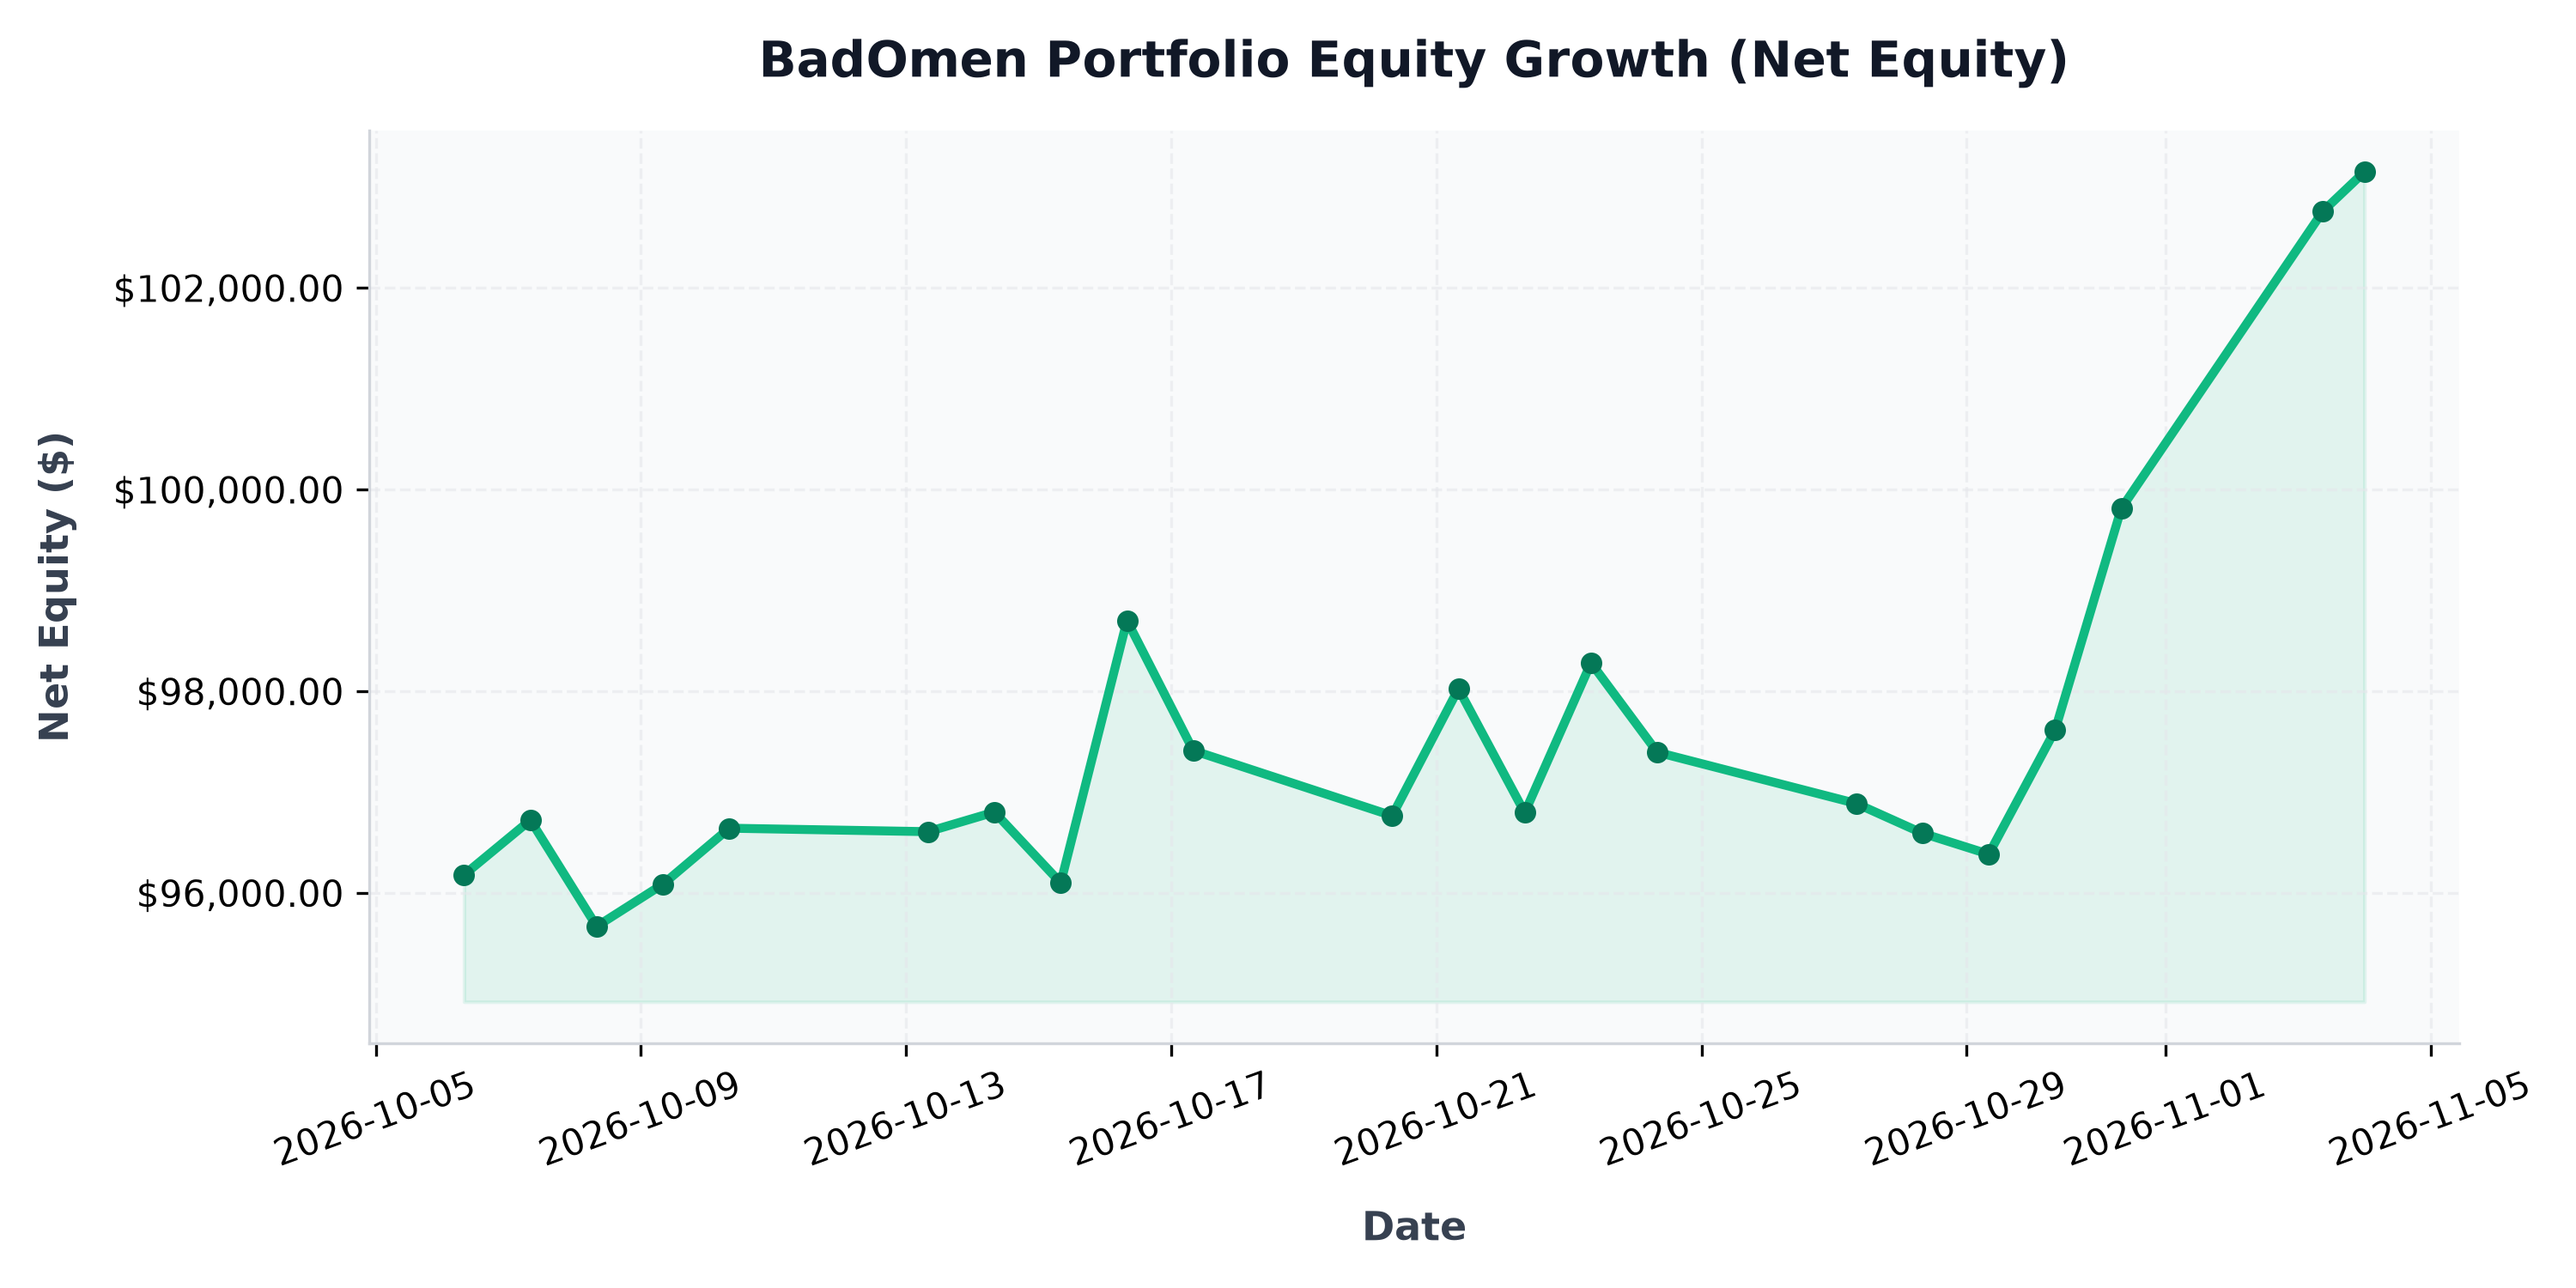
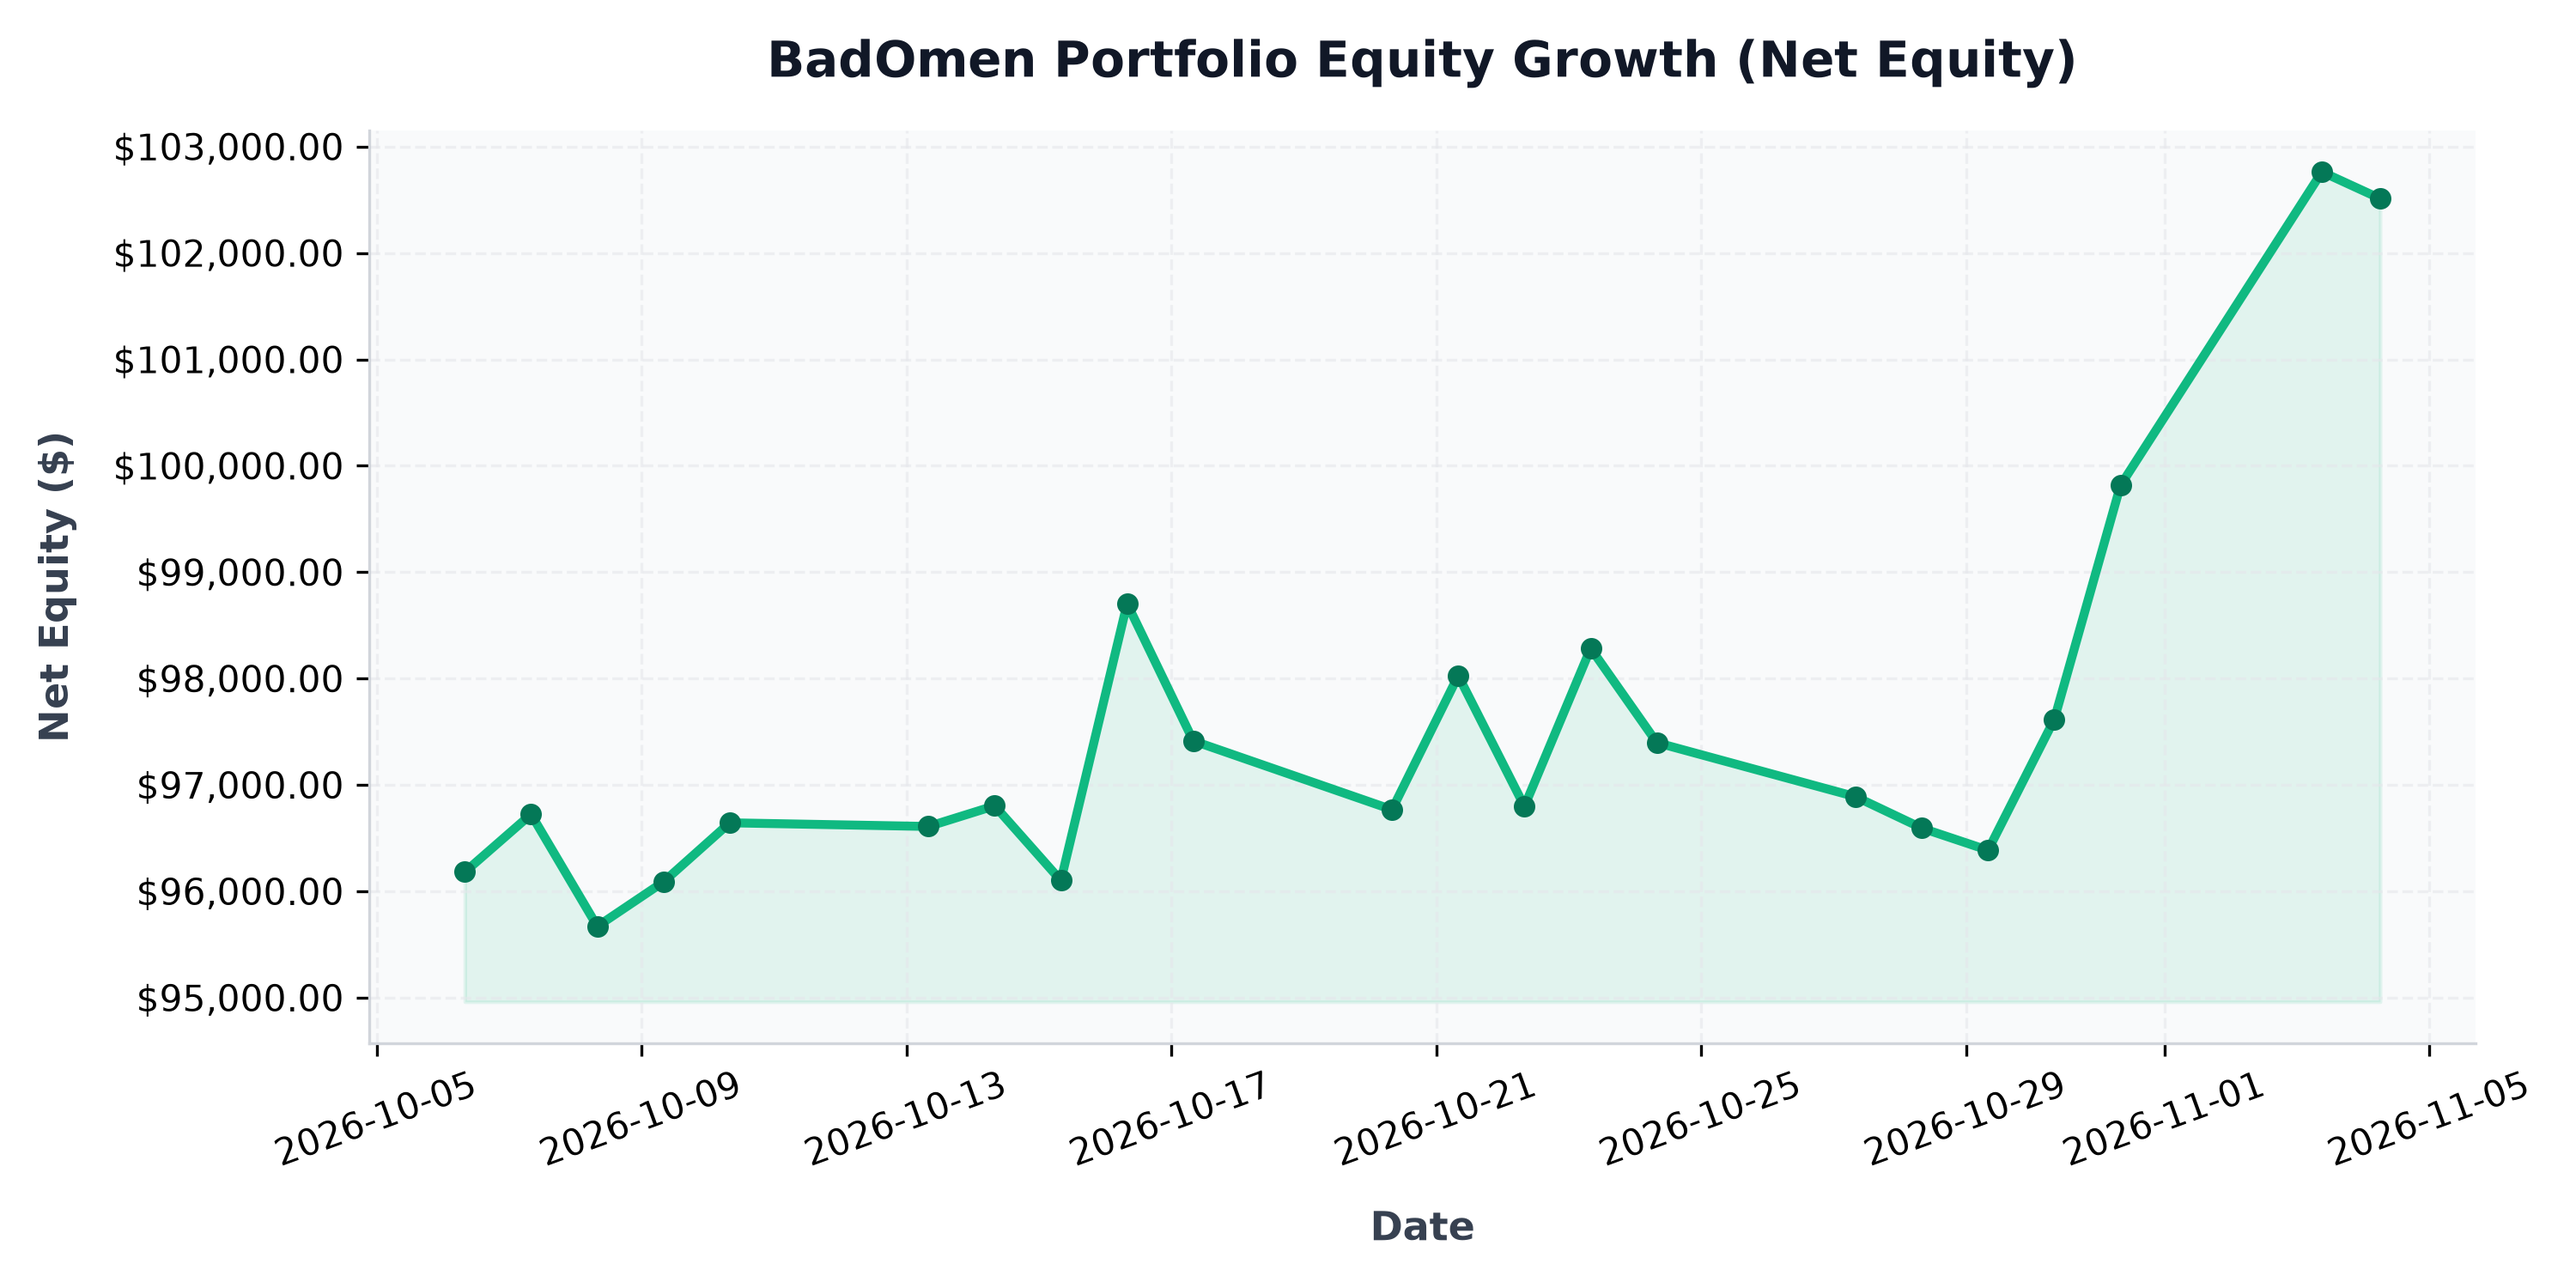
auto: daily portfolio status update - 2026-11-04 06:05:13

diff --git a/src/content/posts/portfolio-performance.md b/src/content/posts/portfolio-performance.md
@@ -1,6 +1,6 @@
 ---
 title: "BadOmen Algorithmic Portfolio Performance & PnL Report"
-pubDatetime: 2026-11-04T00:00:15.077914+08:00
+pubDatetime: 2026-11-04T06:05:13.030033+08:00
 description: "Live performance metrics, active holdings, and historic equity curve for the BadOmen automated paper trading portfolio."
 featured: true
 draft: false
@@ -16,11 +16,11 @@ Welcome to the live performance dashboard for **BadOmen**, our automated algorit
 ## 📊 Portfolio Summary
 | Performance Metric | Value | description |
 | :--- | :--- | :--- |
-| **Net Portfolio Equity** | **$103,152.38** | Total current liquidation value of cash and stock holdings |
-| **Total Unrealized P&L** | 🟢 **+$307.90** (+0.30%) | Total return of current open holdings |
+| **Net Portfolio Equity** | **$102,511.44** | Total current liquidation value of cash and stock holdings |
+| **Total Unrealized P&L** | 🔴 **$-331.46** (-0.32%) | Total return of current open holdings |
 | **Cash Balance** | $26,189.42 | Idle reserve currency available for limit orders |
-| **Buying Power** | $310,161.79 | Margin-backed buying power for entry allocations |
-| **Report Updated** | `2026-11-04 00:00:15 (SGT)` | Timestamp of daily execution and sync run |
+| **Buying Power** | $308,367.17 | Margin-backed buying power for entry allocations |
+| **Report Updated** | `2026-11-04 06:05:13 (SGT)` | Timestamp of daily execution and sync run |
 
 ## 📈 Net Equity Growth Curve
 The chart below illustrates the historical performance of the account starting from our baseline capital funding of $100,000.00.
@@ -35,36 +35,36 @@ The chart below illustrates the exposure of our currently held active positions 
 ## 💼 Current Position Holdings
 | Ticker | Industry | Shares Owned | Average Entry Cost | Current Price | Unrealized P&L | Return (%) |
 | :--- | :--- | :--- | :--- | :--- | :--- | :--- |
-| **AN** | Auto & Truck Dealerships | 5 | $188.51 | $183.06 | 🔴 $-27.27 | -2.89% |
-| **AVGO** | Semiconductors | 1 | $385.71 | $334.19 | 🔴 $-51.52 | -13.36% |
-| **BIRK** | Footwear & Accessories | 407 | $37.32 | $35.33 | 🔴 $-811.04 | -5.34% |
-| **BLBD** | Farm & Heavy Construction Machinery | 231 | $65.52 | $59.06 | 🔴 $-1,491.33 | -9.85% |
-| **BVN** | Other Precious Metals & Mining | 32 | $31.88 | $26.74 | 🔴 $-164.32 | -16.11% |
-| **CELH** | Beverages - Non-Alcoholic | 33 | $29.71 | $30.05 | 🟢 +$11.13 | +1.14% |
-| **CPRI** | Luxury Goods | 695 | $14.13 | $20.27 | 🟢 +$4,262.36 | +43.40% |
-| **DUOL** | Software - Application | 14 | $131.04 | $133.27 | 🟢 +$31.16 | +1.70% |
-| **FIS** | Information Technology Services | 23 | $41.79 | $39.38 | 🔴 $-55.55 | -5.78% |
-| **GDDY** | Software - Infrastructure | 6 | $76.21 | $113.58 | 🟢 +$224.25 | +49.04% |
-| **GDS** | Information Technology Services | 30 | $32.77 | $21.94 | 🔴 $-324.90 | -33.05% |
-| **GGAL** | Banks - Regional | 17 | $56.04 | $30.96 | 🔴 $-426.35 | -44.75% |
-| **GOOGL** | Internet Content & Information | 3 | $319.44 | $279.38 | 🔴 $-120.18 | -12.54% |
-| **GPI** | Auto & Truck Dealerships | 3 | $316.15 | $267.39 | 🔴 $-146.28 | -15.42% |
-| **HUBS** | Software - Application | 8 | $221.18 | $235.46 | 🟢 +$114.21 | +6.46% |
-| **ITRI** | Scientific & Technical Instruments | 12 | $81.80 | $99.36 | 🟢 +$210.66 | +21.46% |
-| **KBR** | Engineering & Construction | 27 | $36.23 | $40.56 | 🟢 +$116.83 | +11.94% |
-| **LRCX** | Semiconductor Equipment & Materials | 22 | $234.94 | $233.93 | 🔴 $-22.17 | -0.43% |
-| **NESR** | Oil & Gas Equipment & Services | 34 | $28.74 | $21.75 | 🔴 $-237.66 | -24.32% |
-| **NU** | Banks - Regional | 57 | $11.60 | $11.62 | 🟢 +$1.51 | +0.23% |
-| **ON** | Semiconductors | 10 | $90.45 | $73.17 | 🔴 $-172.80 | -19.10% |
-| **ORCL** | Software - Infrastructure | 5 | $181.95 | $126.51 | 🔴 $-277.20 | -30.47% |
-| **PATH** | Software - Infrastructure | 38 | $10.25 | $13.28 | 🟢 +$115.14 | +29.56% |
-| **PYPL** | Credit Services | 17 | $56.05 | $58.88 | 🟢 +$48.20 | +5.06% |
-| **QCOM** | Semiconductors | 15 | $193.68 | $163.52 | 🔴 $-452.47 | -15.57% |
-| **SMCI** | Computer Hardware | 22 | $29.25 | $31.75 | 🟢 +$55.01 | +8.55% |
-| **SRE** | Utilities - Diversified | 57 | $84.75 | $85.68 | 🟢 +$52.87 | +1.09% |
-| **T** | Telecom Services | 47 | $20.85 | $21.38 | 🟢 +$24.68 | +2.52% |
-| **WEN** | Restaurants | 257 | $8.02 | $7.25 | 🔴 $-197.56 | -9.58% |
-| **ZG** | Internet Content & Information | 31 | $31.35 | $31.95 | 🟢 +$18.50 | +1.90% |
+| **AN** | Auto & Truck Dealerships | 5 | $188.51 | $178.51 | 🔴 $-49.99 | -5.30% |
+| **AVGO** | Semiconductors | 1 | $385.71 | $336.60 | 🔴 $-49.11 | -12.73% |
+| **BIRK** | Footwear & Accessories | 407 | $37.32 | $34.82 | 🔴 $-1,016.57 | -6.69% |
+| **BLBD** | Farm & Heavy Construction Machinery | 231 | $65.52 | $57.85 | 🔴 $-1,770.84 | -11.70% |
+| **BVN** | Other Precious Metals & Mining | 32 | $31.88 | $26.66 | 🔴 $-166.88 | -16.36% |
+| **CELH** | Beverages - Non-Alcoholic | 33 | $29.71 | $30.08 | 🟢 +$12.12 | +1.24% |
+| **CPRI** | Luxury Goods | 695 | $14.13 | $20.00 | 🟢 +$4,078.18 | +41.52% |
+| **DUOL** | Software - Application | 14 | $131.04 | $143.01 | 🟢 +$167.52 | +9.13% |
+| **FIS** | Information Technology Services | 23 | $41.79 | $40.09 | 🔴 $-39.10 | -4.07% |
+| **GDDY** | Software - Infrastructure | 6 | $76.21 | $113.45 | 🟢 +$223.44 | +48.86% |
+| **GDS** | Information Technology Services | 30 | $32.77 | $22.35 | 🔴 $-312.60 | -31.80% |
+| **GGAL** | Banks - Regional | 17 | $56.04 | $31.48 | 🔴 $-417.51 | -43.82% |
+| **GOOGL** | Internet Content & Information | 3 | $319.44 | $280.38 | 🔴 $-117.18 | -12.23% |
+| **GPI** | Auto & Truck Dealerships | 3 | $316.15 | $265.01 | 🔴 $-153.42 | -16.18% |
+| **HUBS** | Software - Application | 8 | $221.18 | $225.97 | 🟢 +$38.31 | +2.17% |
+| **ITRI** | Scientific & Technical Instruments | 12 | $81.80 | $98.23 | 🟢 +$197.16 | +20.09% |
+| **KBR** | Engineering & Construction | 27 | $36.23 | $39.76 | 🟢 +$95.23 | +9.73% |
+| **LRCX** | Semiconductor Equipment & Materials | 22 | $234.94 | $233.80 | 🔴 $-25.03 | -0.48% |
+| **NESR** | Oil & Gas Equipment & Services | 34 | $28.74 | $20.61 | 🔴 $-276.42 | -28.29% |
+| **NU** | Banks - Regional | 57 | $11.60 | $11.66 | 🟢 +$3.24 | +0.49% |
+| **ON** | Semiconductors | 10 | $90.45 | $73.48 | 🔴 $-169.75 | -18.77% |
+| **ORCL** | Software - Infrastructure | 5 | $181.95 | $127.02 | 🔴 $-274.65 | -30.19% |
+| **PATH** | Software - Infrastructure | 38 | $10.25 | $13.10 | 🟢 +$108.30 | +27.81% |
+| **PYPL** | Credit Services | 17 | $56.05 | $58.00 | 🟢 +$33.15 | +3.48% |
+| **QCOM** | Semiconductors | 15 | $193.68 | $165.50 | 🔴 $-422.77 | -14.55% |
+| **SMCI** | Computer Hardware | 22 | $29.25 | $34.20 | 🟢 +$108.90 | +16.92% |
+| **SRE** | Utilities - Diversified | 57 | $84.75 | $85.36 | 🟢 +$34.63 | +0.72% |
+| **T** | Telecom Services | 47 | $20.85 | $21.34 | 🟢 +$23.01 | +2.35% |
+| **WEN** | Restaurants | 257 | $8.02 | $7.27 | 🔴 $-192.73 | -9.35% |
+| **ZG** | Internet Content & Information | 31 | $31.35 | $31.35 | 🔴 $-0.10 | -0.01% |
 
 ## 🔴 Recent Realized Trades
 | Ticker | Shares Sold | Entry Price | Exit Price | Strategy Trigger | Realized Return | Exit Date |
